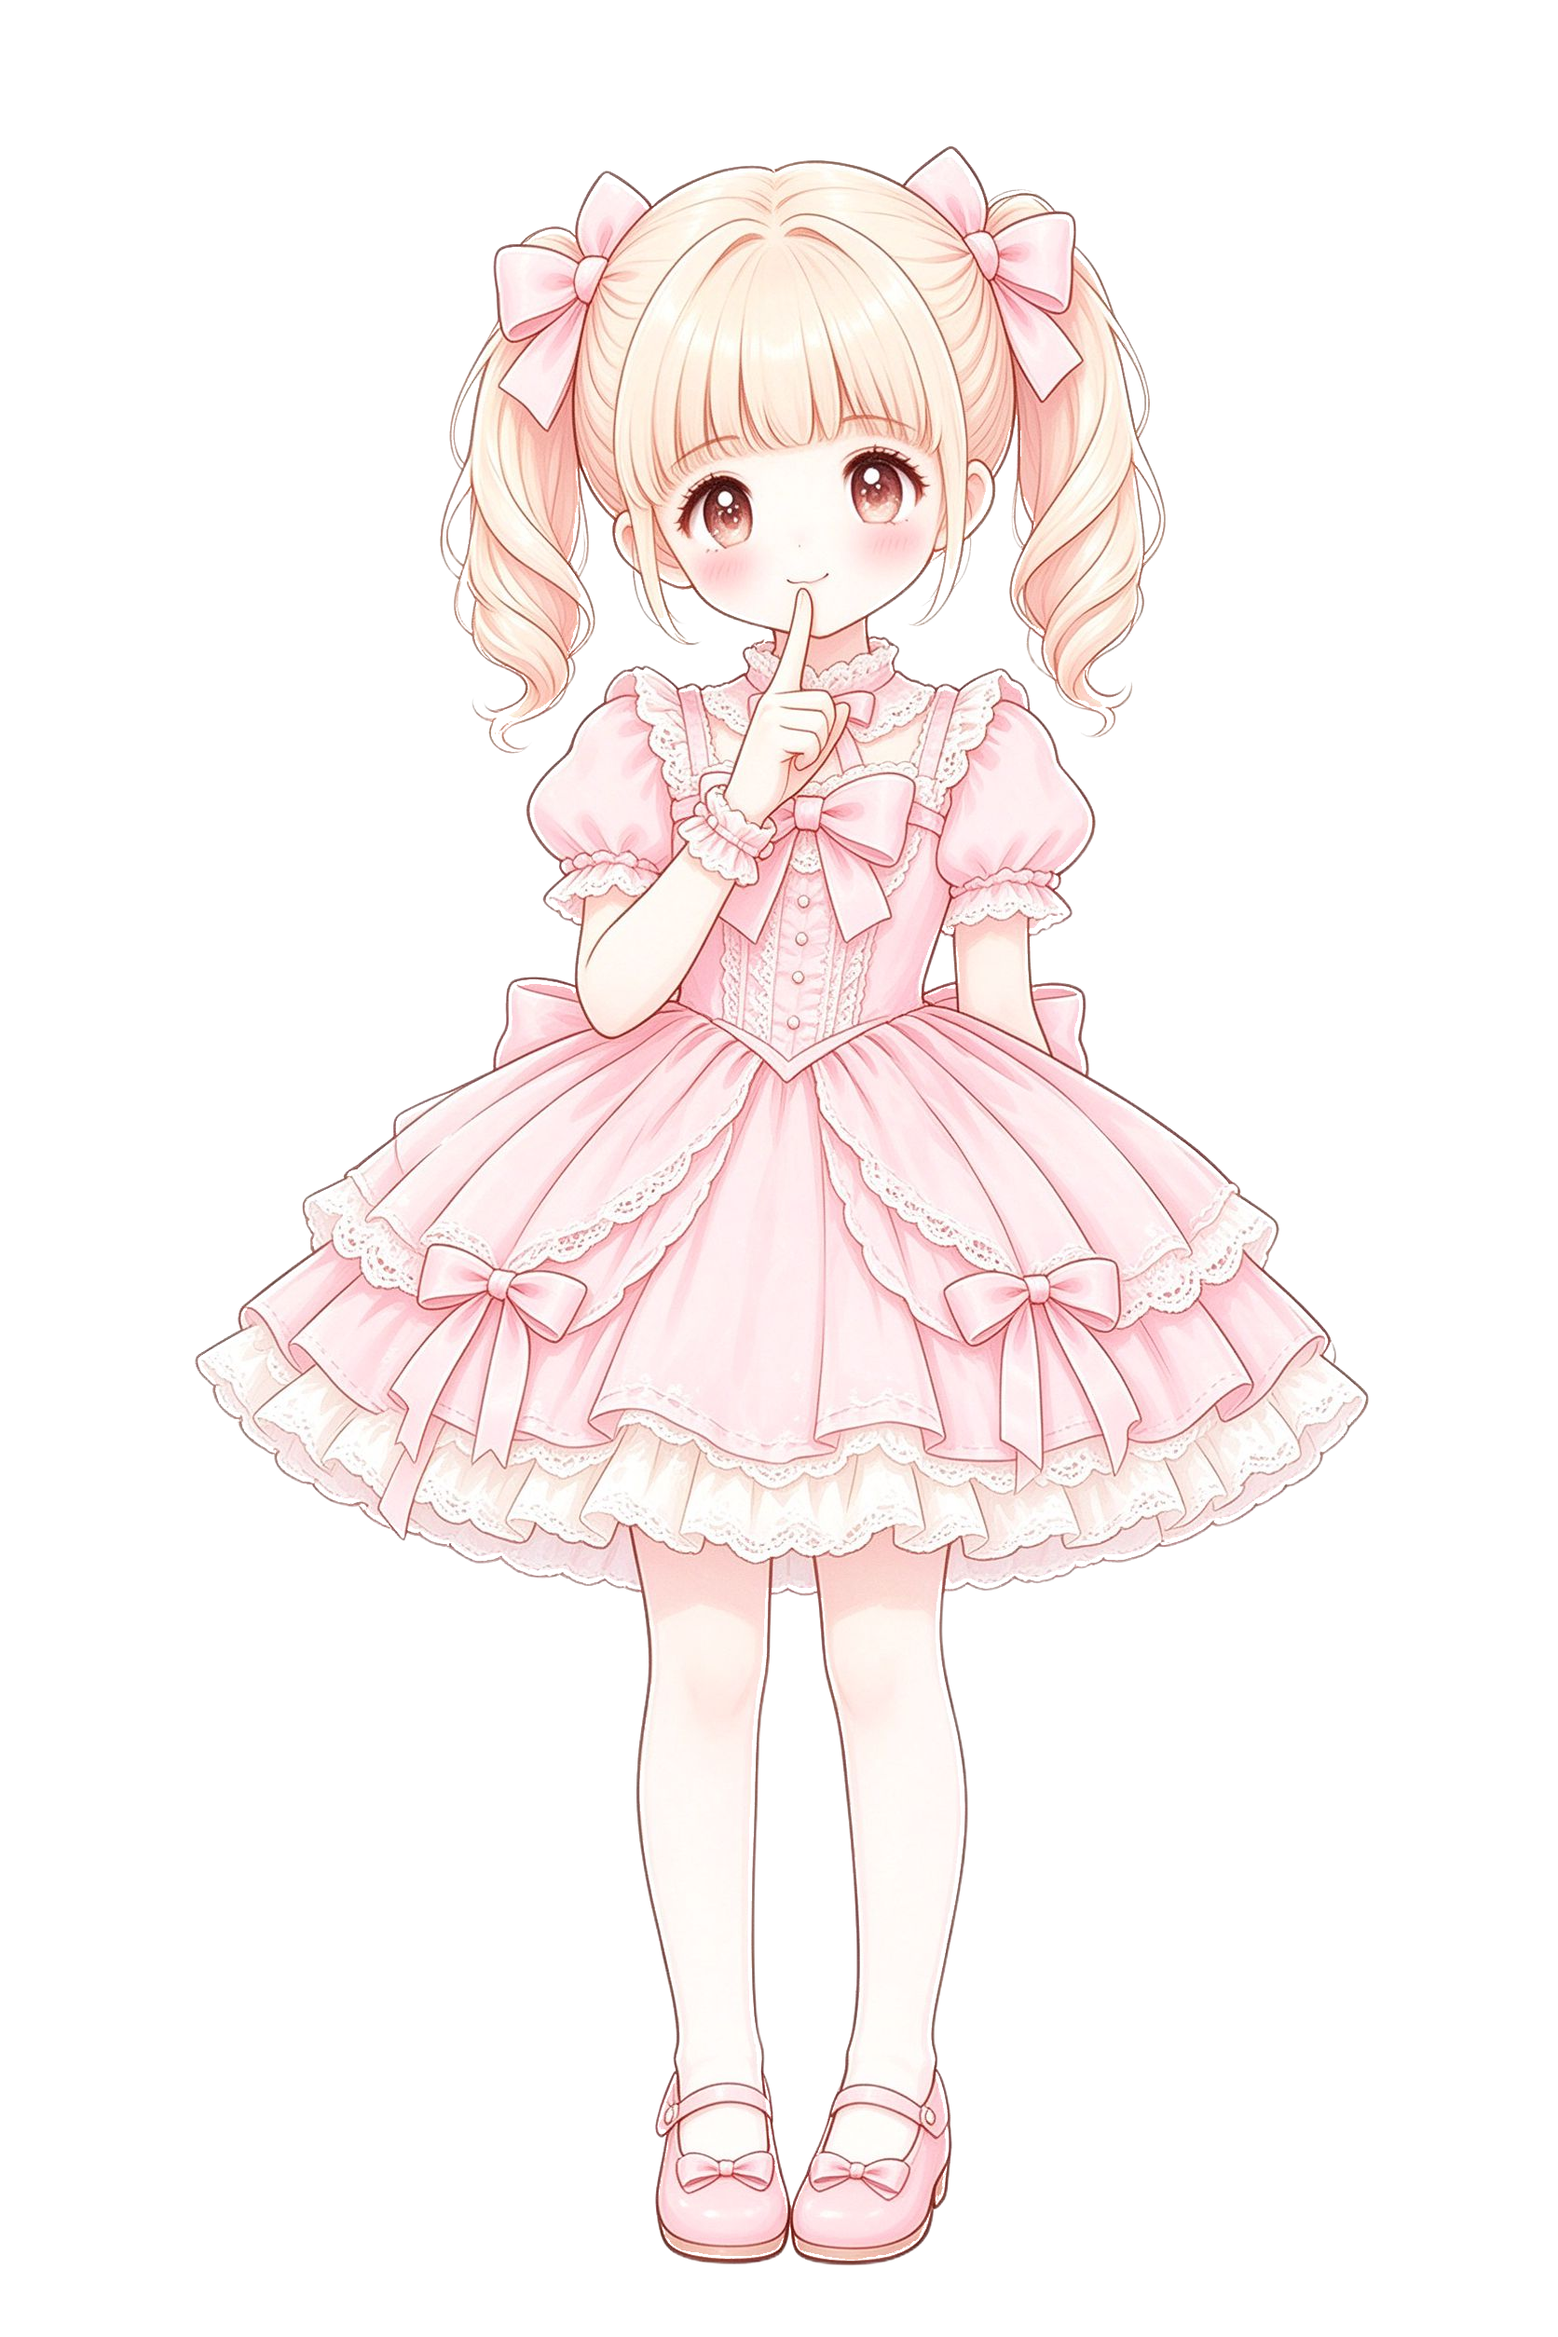
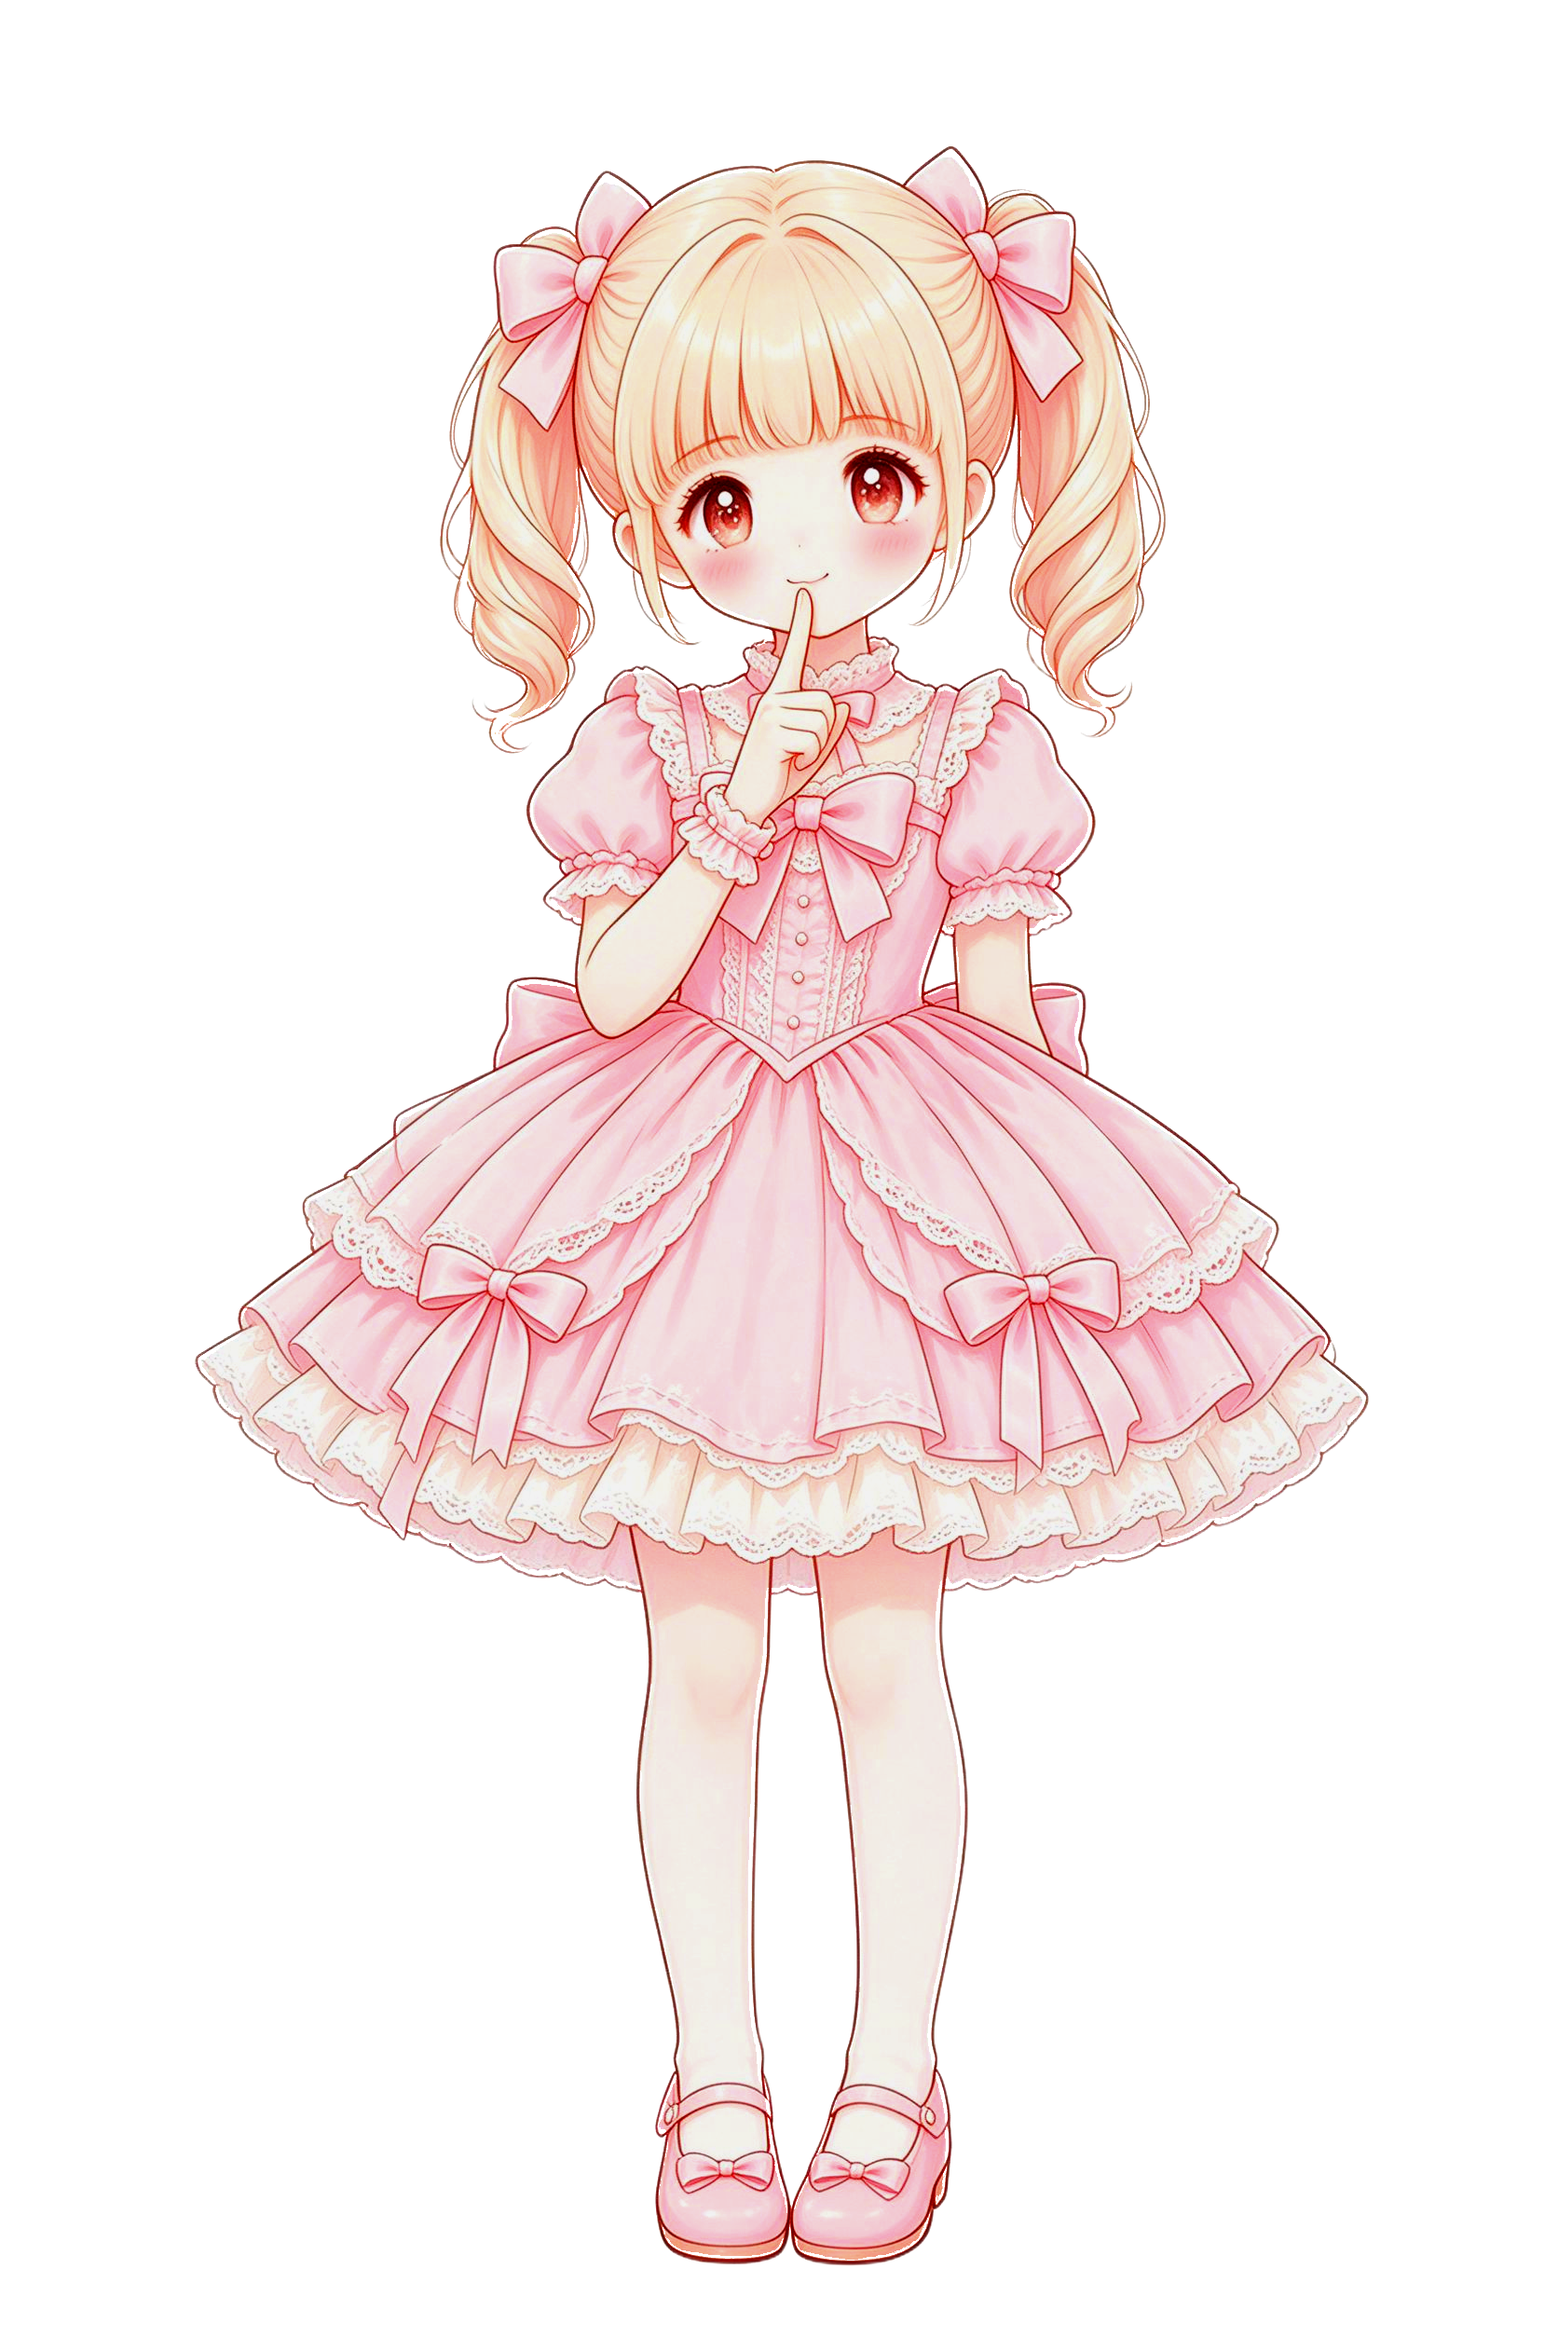
feat(anim-c): girl talk/think调色提鲜+wall/wall_v趴墙重做(无墙板) + rabit 4穿插帧换剪影曲线姿势改单束高马尾 + girl/rabit各3张新坐姿(共6张) + HUD待机改有序循环(睁眼→眯眼→蹲坐→回睁眼)

Changed region(s): [[0.1555, 0.0622, 0.8708, 0.7464], [0.4043, 0.8708, 0.622, 0.9952]]

diff --git a/HUD/sources/HUDRootViewController.mm b/HUD/sources/HUDRootViewController.mm
@@ -105,6 +105,7 @@ extern "C" const char *g_hud_char;
     BOOL _isDragging;
     CGPoint _dragOffset;
     int _emojiTimer;      // 点击表情显示计时
+    NSUInteger _moodSeqIndex;  // v6.0.9：待机有序循环当前帧序号（不再随机挑帧）
 }
 
 + (BOOL)passthroughMode { return _passthrough; }
@@ -127,8 +128,14 @@ extern "C" const char *g_hud_char;
         if (wall) _wallImage = _trimTransparentPadding(wall);   // v6.0.8：水平扒墙（顶/底边缘）
         UIImage *wallV = [UIImage imageNamed:[NSString stringWithFormat:@"%@_wall_v", prefix]];
         if (wallV) _wallImageV = _trimTransparentPadding(wallV);   // v6.0.8：竖直扒墙（左/右边缘）
-        // v6.0.8：加载更多站立表情/动作帧（待机自动切换 + 点击轮流展示）
-        NSArray *moodNames = @[@"blink", @"wave", @"tilt", @"giggle", @"heart", @"surprise", @"angry", @"jump", @"squat", @"kneel", @"sit", @"side", @"hands", @"cross", @"lift"];
+        // v6.0.9：待机动作改为【有序循环】（用户要求：睁眼idle放第一 → 眯眼微笑帧穿插在睁眼后面 → 下蹲/坐姿 → 回睁眼，循环），不再随机挑帧。
+        // 顺序即播放顺序：睁眼段(站立睁眼表情) → 眯眼段(闭眼微笑/弯月眼) → 蹲坐段(蹲/跪/坐/趴姿势)，播完回 idle 再从头循环。
+        NSArray *moodNames = @[
+            @"tilt", @"heart", @"surprise", @"angry", @"jump",      // 睁眼段
+            @"blink", @"giggle", @"wave",                           // 眯眼段
+            @"squat", @"kneel", @"sit", @"side", @"hands", @"cross", @"lift",
+            @"wave_sit", @"kneel_up", @"side_sit", @"squat_hold", @"prone", @"chin_sit"   // 蹲坐段
+        ];
         NSMutableArray *mood = [NSMutableArray array];
         for (NSString *mn in moodNames) {
             UIImage *m = [UIImage imageNamed:[NSString stringWithFormat:@"%@_%@", prefix, mn]];
@@ -208,7 +215,7 @@ extern "C" const char *g_hud_char;
     [_girlView.layer addAnimation:anim forKey:@"hudFloat"];
 }
 
-// v6.0.8：待机自动切换表情——空闲时随机从 _moodFrames 挑一个显示约 1.2s，然后回 idle，再排下一次。
+// v6.0.9：待机自动切换表情——空闲时按 _moodFrames【顺序循环】取一帧显示约 1.2s（睁眼→眯眼→蹲坐→回睁眼），然后回 idle，再排下一次。
 // 只在"待机态 + 未拖拽 + 未扒墙 + 未锁屏"时切换，不打断用户正在看的表情/扒墙/拖拽。
 - (void)_scheduleAutoMood {
     if (!_moodFrames.count || _moodShowing) return;
@@ -216,7 +223,8 @@ extern "C" const char *g_hud_char;
         if (self->_autoMoodPaused || self->_isDragging || self->_moodShowing) { [self _scheduleAutoMood]; return; }
         if (self->_girlView.image == self->_wallImage || self->_girlView.image == self->_wallImageV) { [self _scheduleAutoMood]; return; }
         if (self->_girlView.image != self->_idleFrames.firstObject) { [self _scheduleAutoMood]; return; }
-        NSUInteger idx = arc4random_uniform((uint32_t)self->_moodFrames.count);
+        NSUInteger idx = self->_moodSeqIndex % self->_moodFrames.count;
+        self->_moodSeqIndex = (self->_moodSeqIndex + 1) % self->_moodFrames.count;
         UIImage *m = self->_moodFrames[idx];
         if (!m) { [self _scheduleAutoMood]; return; }
         self->_moodShowing = YES;
